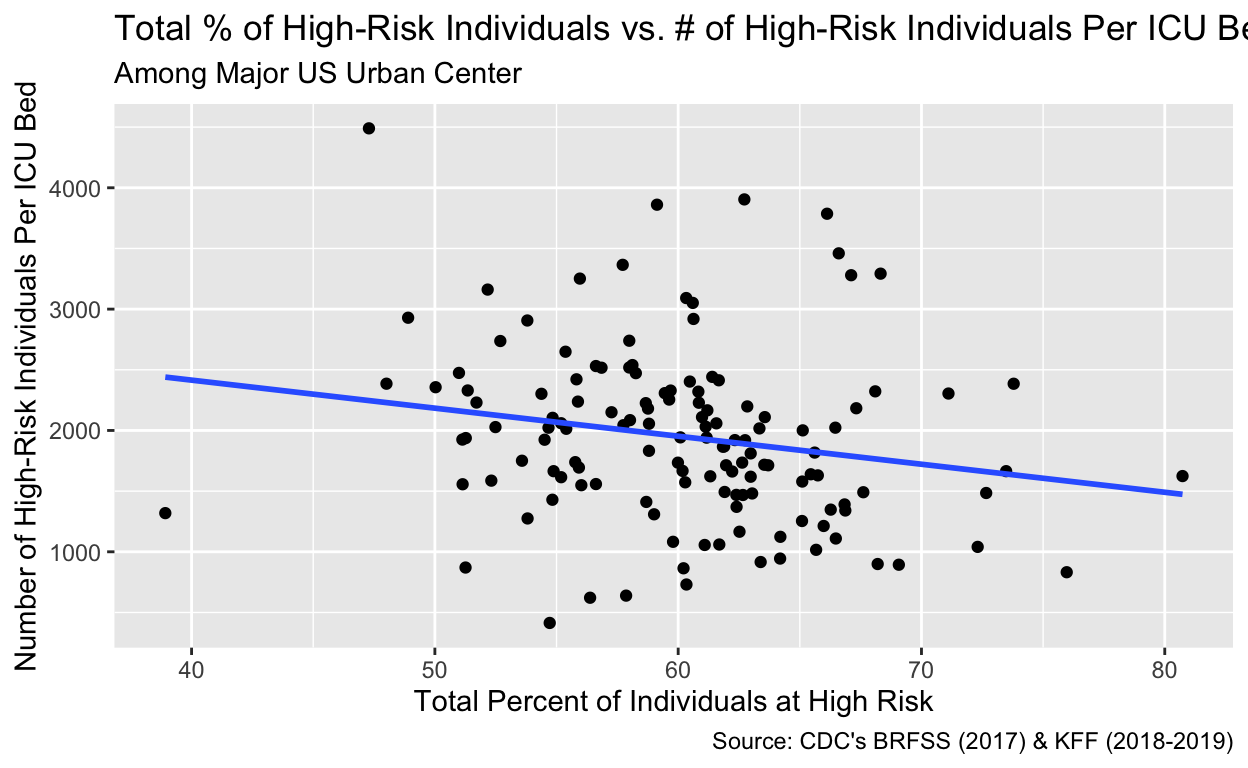
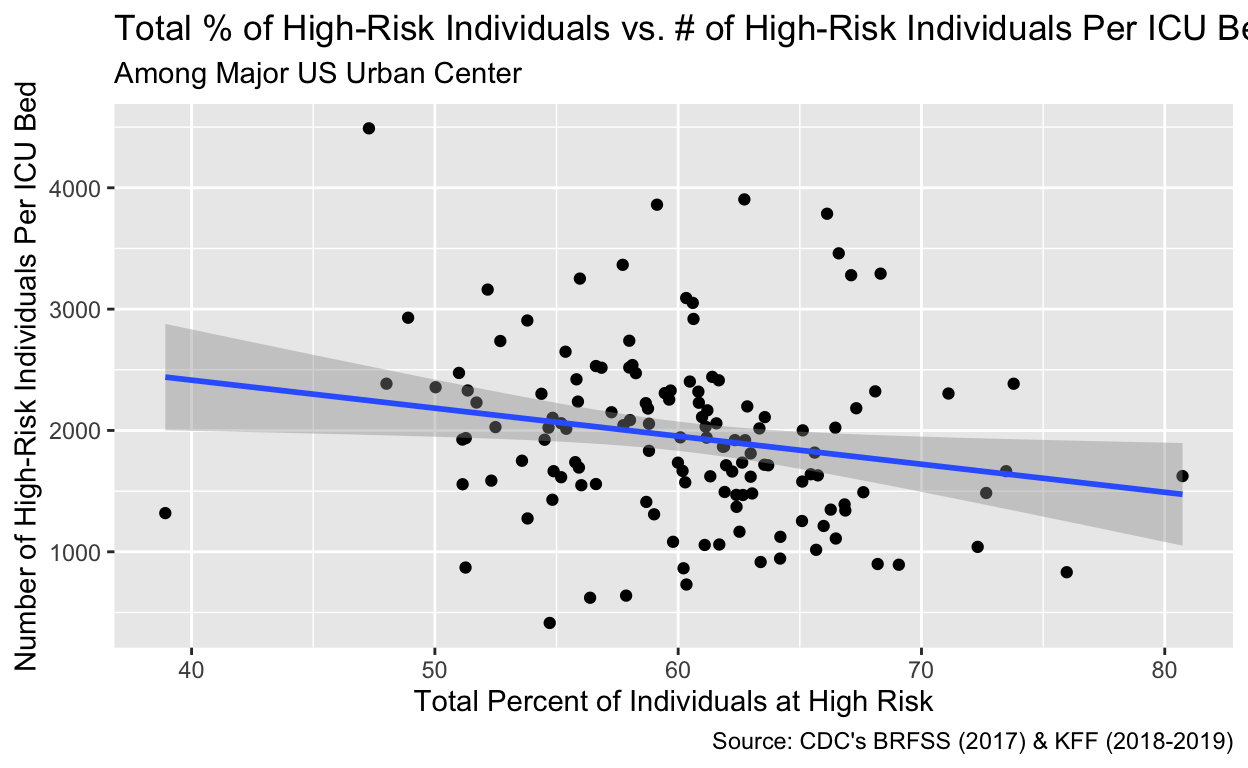
Final Milestone 3

Changed region(s): [[0.125, 0.4062, 0.9688, 0.7188]]

diff --git a/index.html b/index.html
@@ -1531,7 +1531,7 @@ code span.wa { color: #5e5e5e; font-style: italic; } /* Warning */
 <span><span class='va'>covid</span> <span class='op'>|&gt;</span></span>
 <span>  <span class='fu'><a href='https://ggplot2.tidyverse.org/reference/ggplot.html'>ggplot</a></span><span class='op'>(</span>mapping <span class='op'>=</span> <span class='fu'><a href='https://ggplot2.tidyverse.org/reference/aes.html'>aes</a></span><span class='op'>(</span>x <span class='op'>=</span> <span class='fu'><a href='https://rdrr.io/r/base/numeric.html'>as.numeric</a></span><span class='op'>(</span><span class='va'>total_percent_at_risk</span><span class='op'>)</span>, y <span class='op'>=</span> <span class='va'>high_risk_per_ICU_bed</span><span class='op'>)</span><span class='op'>)</span> <span class='op'>+</span></span>
 <span>  <span class='fu'><a href='https://ggplot2.tidyverse.org/reference/geom_point.html'>geom_point</a></span><span class='op'>(</span><span class='op'>)</span> <span class='op'>+</span></span>
-<span>  <span class='fu'><a href='https://ggplot2.tidyverse.org/reference/geom_smooth.html'>geom_smooth</a></span><span class='op'>(</span>method <span class='op'>=</span> <span class='st'>"lm"</span>, se <span class='op'>=</span> <span class='cn'>FALSE</span><span class='op'>)</span> <span class='op'>+</span></span>
+<span>  <span class='fu'><a href='https://ggplot2.tidyverse.org/reference/geom_smooth.html'>geom_smooth</a></span><span class='op'>(</span>method <span class='op'>=</span> <span class='st'>"lm"</span>, se <span class='op'>=</span> <span class='cn'>TRUE</span><span class='op'>)</span> <span class='op'>+</span></span>
 <span>  <span class='fu'><a href='https://ggplot2.tidyverse.org/reference/labs.html'>labs</a></span><span class='op'>(</span></span>
 <span>    title <span class='op'>=</span> <span class='st'>"Total % of High-Risk Individuals vs. # of High-Risk Individuals Per ICU Bed"</span>,</span>
 <span>    x <span class='op'>=</span> <span class='st'>"Total Percent of Individuals at High Risk"</span>,</span>
@@ -1542,6 +1542,7 @@ code span.wa { color: #5e5e5e; font-style: italic; } /* Warning */
 </div>
 <p><img src="index_files/figure-html5/unnamed-chunk-1-1.png" width="624" /></p>
 </div>
+<p>This scatter plot includes a graphed least-squares regression line that shows that as the total percent of individuals at high risk increases, the number of high-risk individuals per ICU bed decreases, in urban centers across the U.S. This relationship might show that urban centers that have populations with a high total percent of individuals at high risk are working with a lot more resources that allow them to minimize the number of high-risk individuals per ICU bed. In other words, they are able to host more ICU beds in their hospitals which minimizes the number of high-risk individuals per ICU bed. On the other hand, urban centers that have populations with a low total percent of individuals at high risk might have a much more fragile healthcare system as they incur a higher number of high-risk individuals per ICU bed. Why is this finding important? Well, this highlights a possible disparity in resources available to healthcare facilities in urban centers with a low total percent of individuals at high risk, especially during pandemics, epidemics, or outbreaks similar to COVID-19. These urban centers with significantly less high-risk individuals would be expected to have a much lower number of high-risk individuals per ICU bed, yet the number is higher. While a direct association between this assumption and viewed correlation can be immediately made, it encourages further analysis of the subject.</p>
 <div class="sourceCode" id="cb1"><pre class="sourceCode r distill-force-highlighting-css"><code class="sourceCode r"></code></pre></div>
 <!--radix_placeholder_article_footer-->
 <!--/radix_placeholder_article_footer-->
